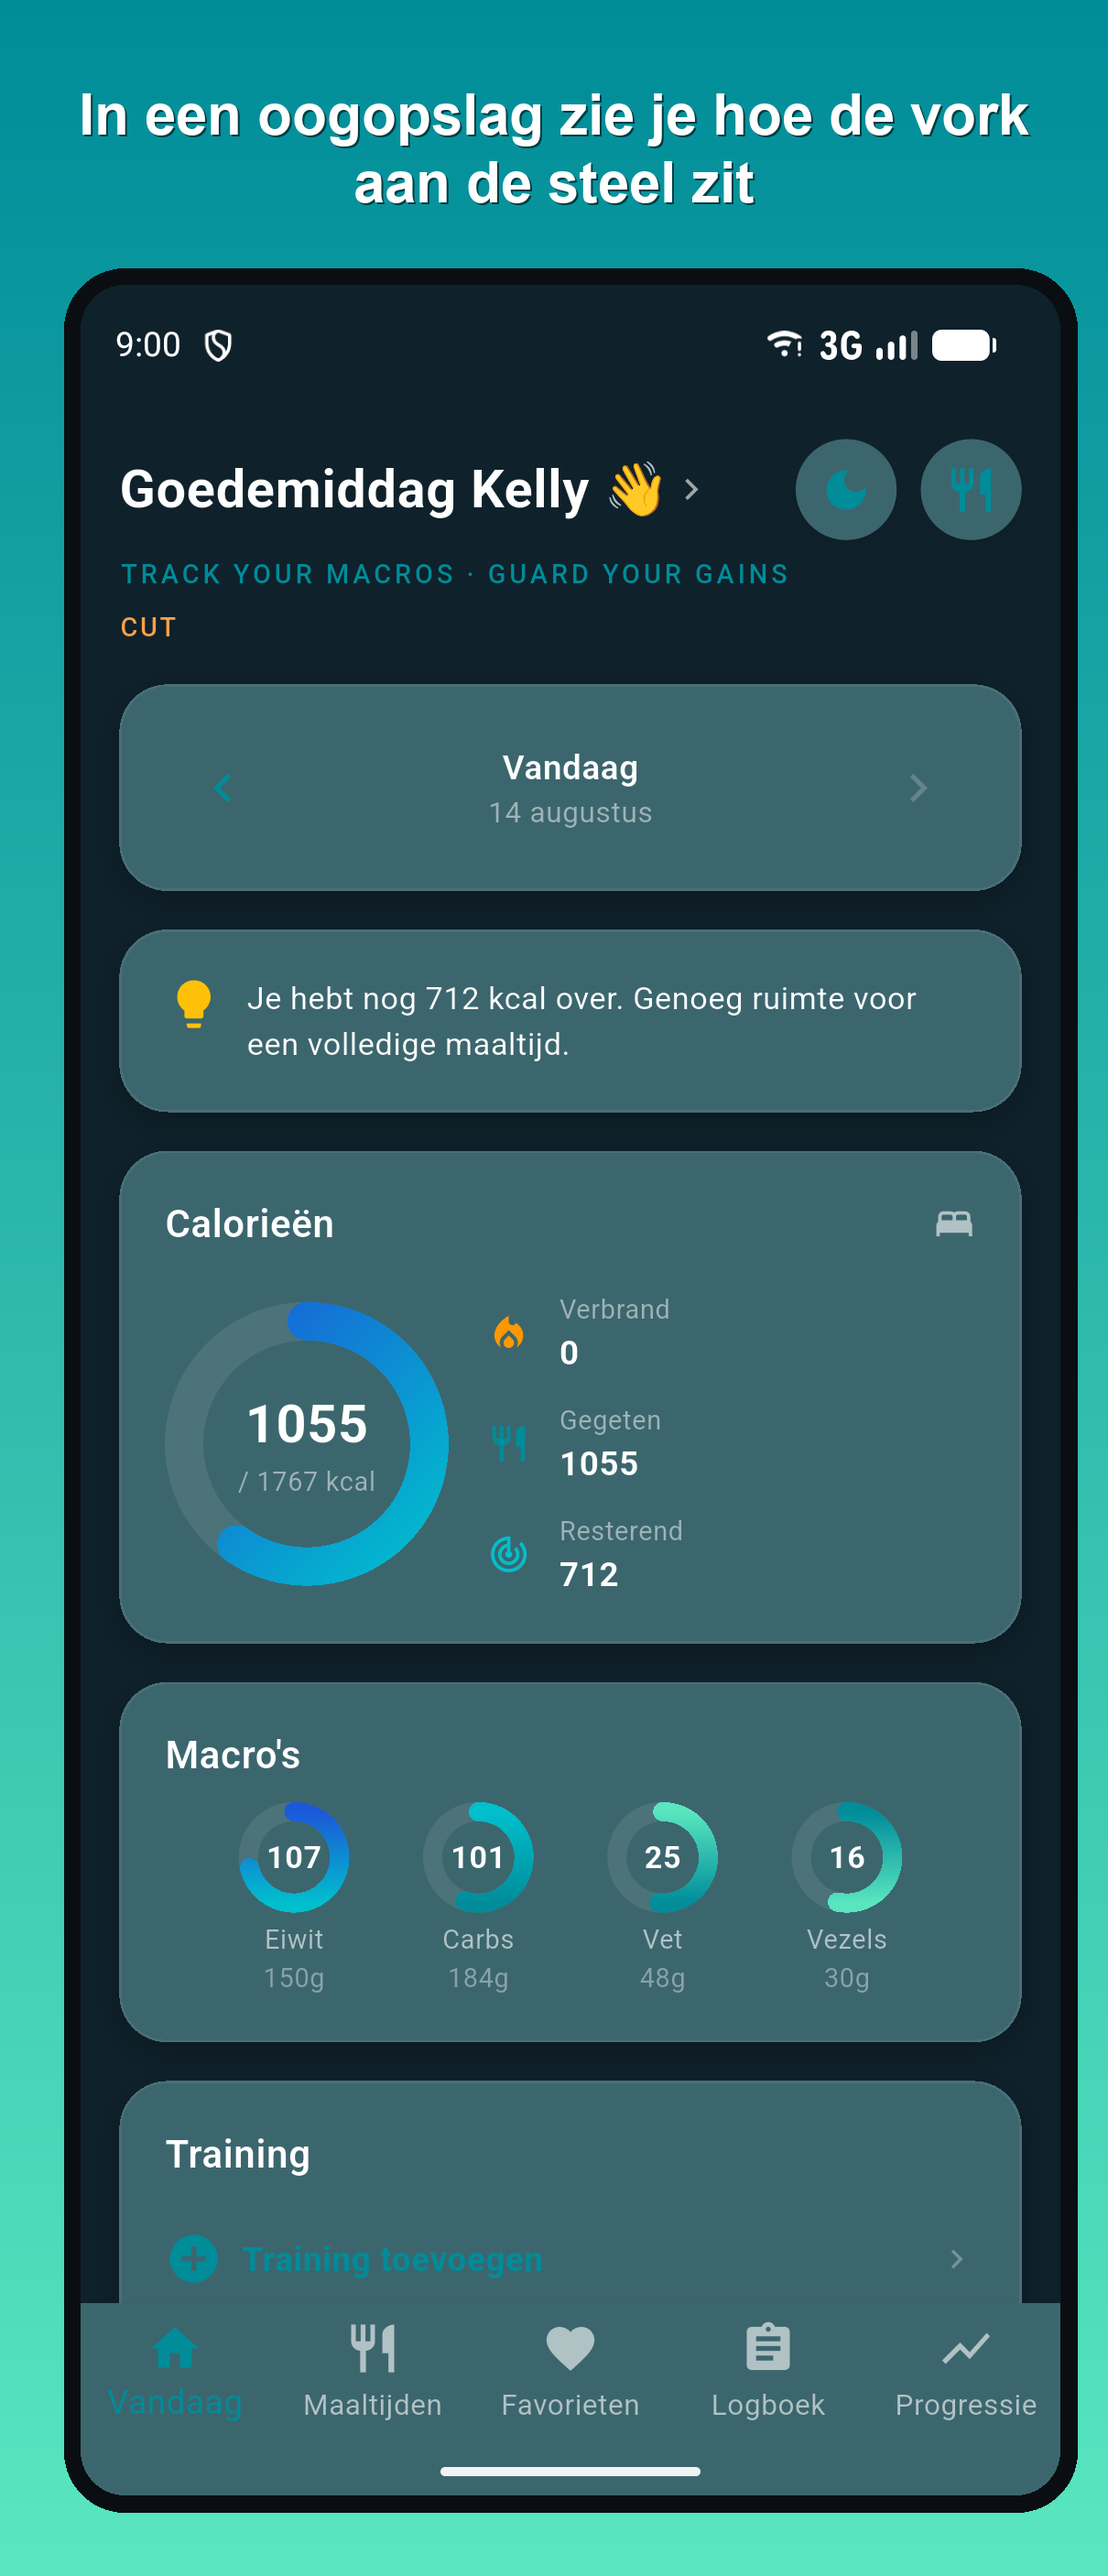
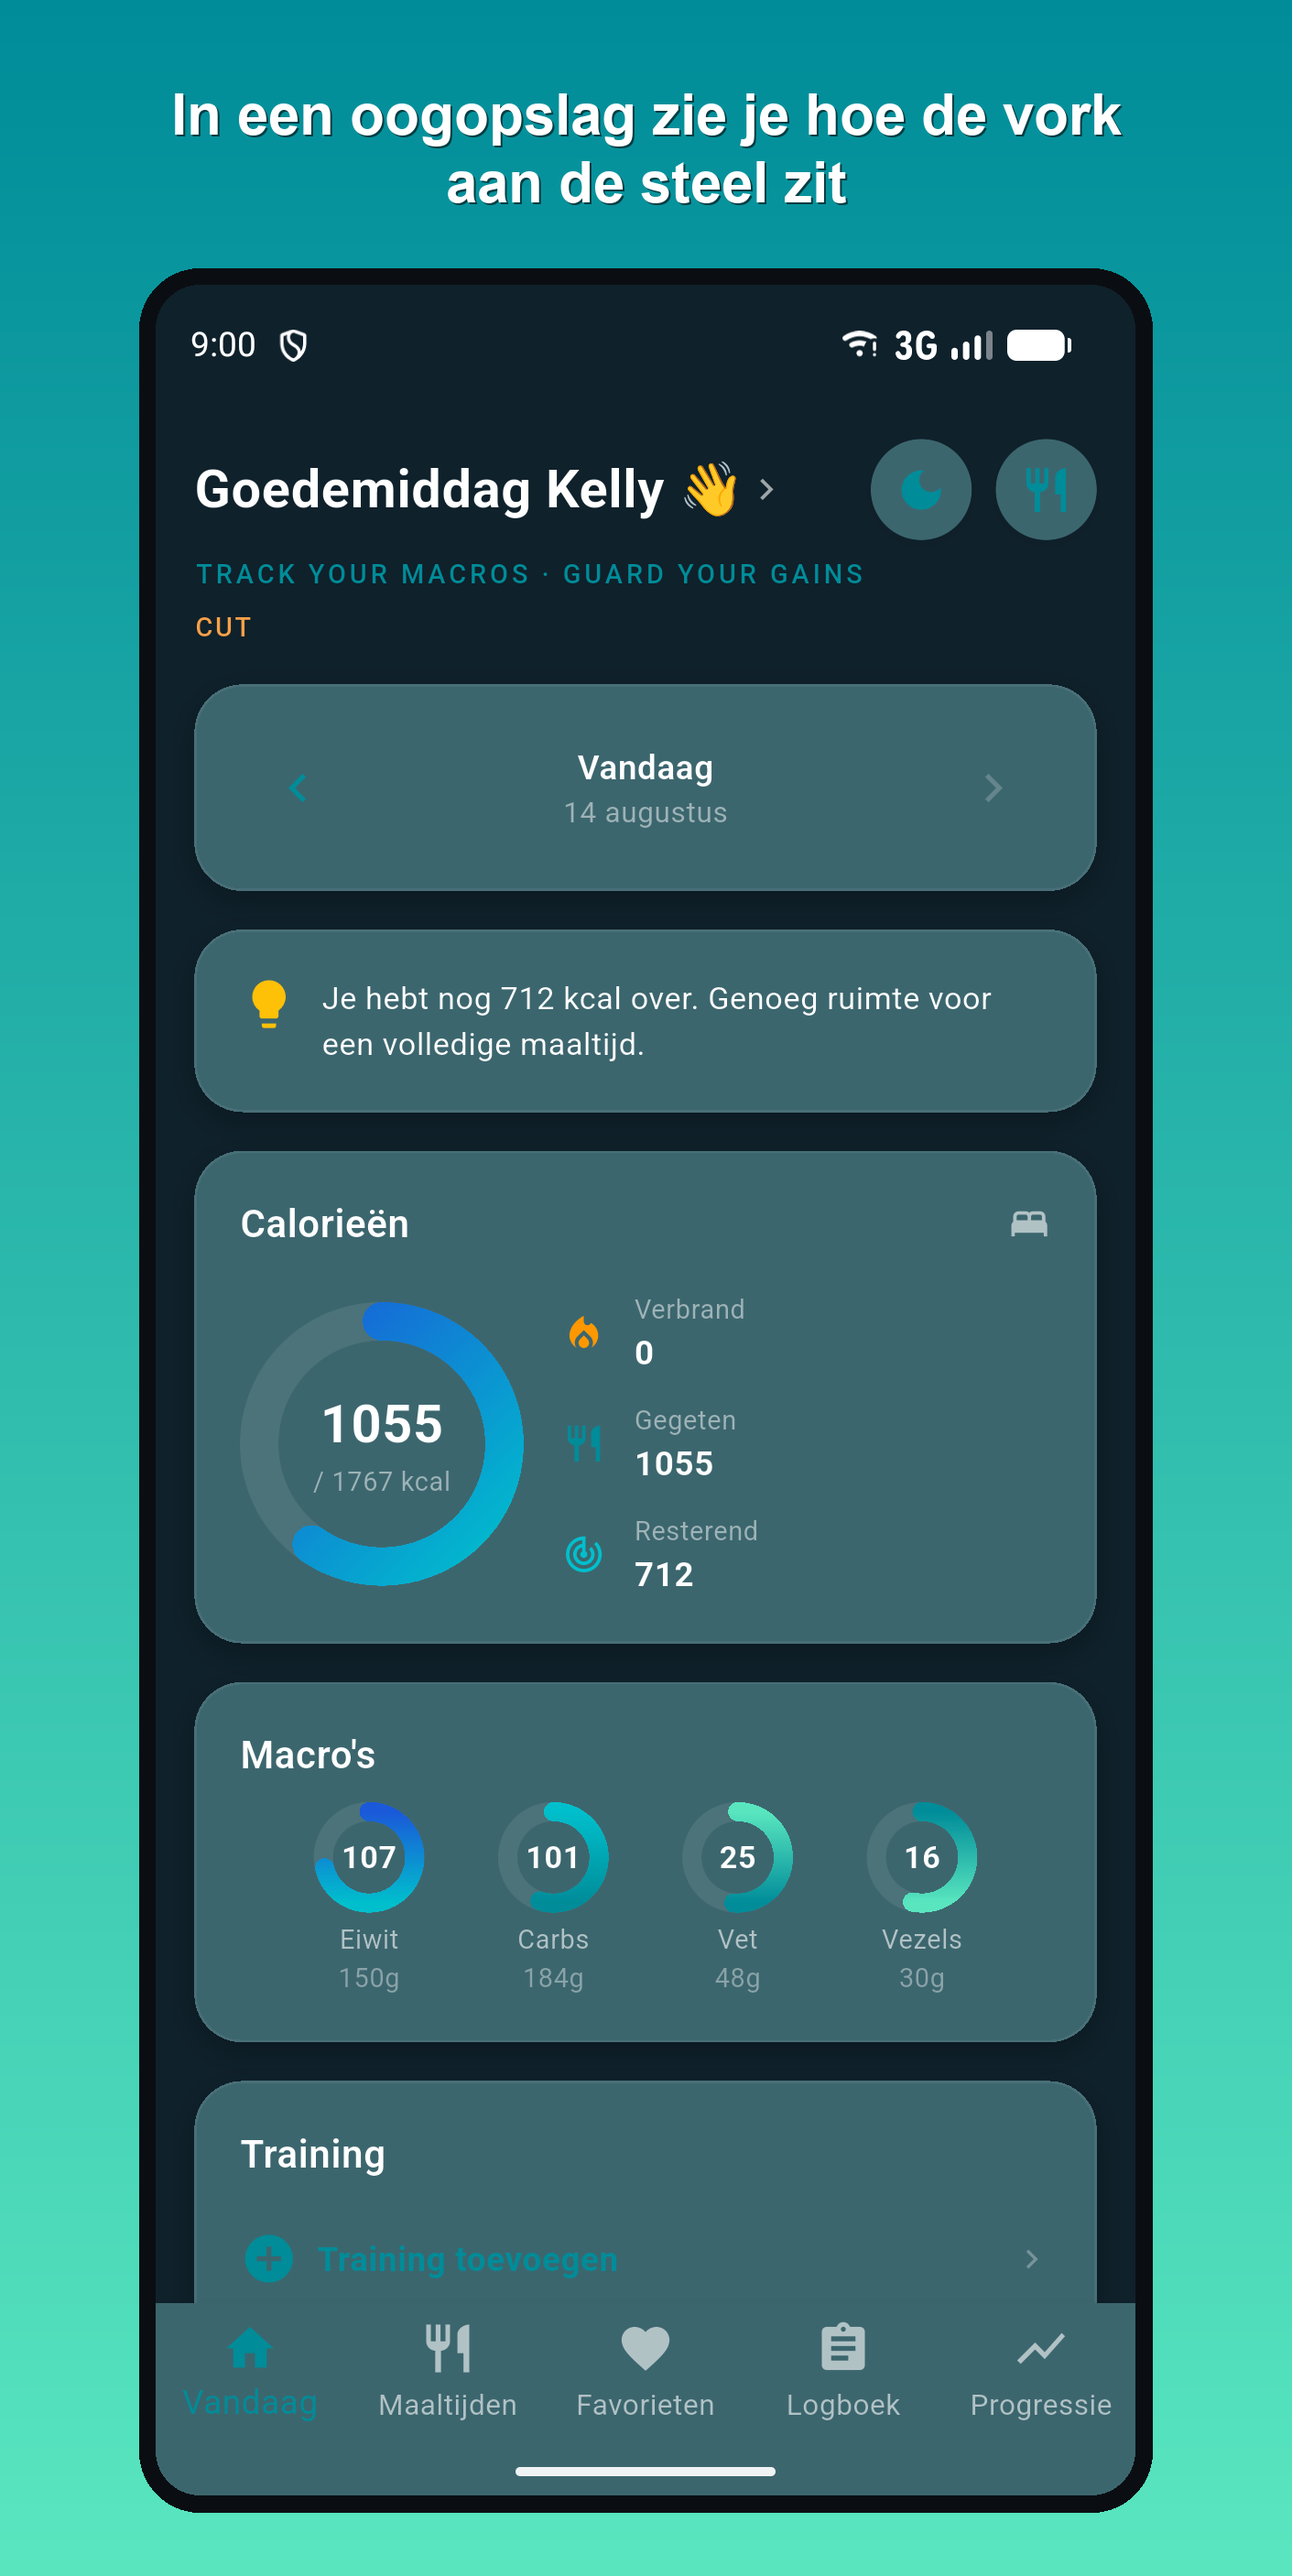
Android Play Store screenshots: fix 2:1 aspect-ratio limiet (canvas verbreed i.p.v. content bijgesneden)

diff --git a/android_app/PlayStoreScreenshots/compose.py b/android_app/PlayStoreScreenshots/compose.py
@@ -91,6 +91,14 @@ def compose(shot_file, crop_h, tagline, out_file):
     total_text_h = line_h * len(lines)
 
     canvas_h = TOP_MARGIN + total_text_h + GAP + h + 2 * BEZEL + BOTTOM_MARGIN
+
+    # Play Store staat max. 2:1 (lengte:breedte) toe voor screenshots. De losse
+    # telefoonfoto + tagline erboven wordt al gauw hoger-smaller dan dat, dus
+    # verbreden we het canvas (extra gradient-marge links/rechts) i.p.v. de
+    # screenshot zelf te verkleinen of content weg te snijden.
+    min_w_for_ratio = -(-canvas_h // 2) + 4  # ceil(canvas_h / 2) + veiligheidsmarge
+    canvas_w = max(canvas_w, min_w_for_ratio)
+
     canvas = vertical_gradient(canvas_w, canvas_h, TEAL, MINT)
     draw = ImageDraw.Draw(canvas)
 
@@ -103,14 +111,16 @@ def compose(shot_file, crop_h, tagline, out_file):
         draw.text((tx, text_y), line, font=font, fill=(255, 255, 255))
         text_y += line_h
 
-    # Phone frame: black rounded rect (bezel) behind the screenshot
+    # Phone frame: black rounded rect (bezel) behind de screenshot, horizontaal
+    # gecentreerd binnen het (mogelijk verbrede) canvas.
     frame_top = TOP_MARGIN + total_text_h + GAP
-    frame_box = (SIDE_MARGIN, frame_top, SIDE_MARGIN + w + 2 * BEZEL, frame_top + h + 2 * BEZEL)
+    frame_left = (canvas_w - (w + 2 * BEZEL)) / 2
+    frame_box = (frame_left, frame_top, frame_left + w + 2 * BEZEL, frame_top + h + 2 * BEZEL)
     draw.rounded_rectangle(frame_box, radius=CORNER_RADIUS + BEZEL, fill=(10, 14, 18))
 
     # Rounded screenshot pasted on top
     mask = rounded_mask((w, h), CORNER_RADIUS)
-    canvas.paste(img, (SIDE_MARGIN + BEZEL, frame_top + BEZEL), mask)
+    canvas.paste(img, (round(frame_left + BEZEL), frame_top + BEZEL), mask)
 
     canvas.save(os.path.join(SP, out_file))
     print(f"{out_file}: {canvas_w}x{canvas_h}")
